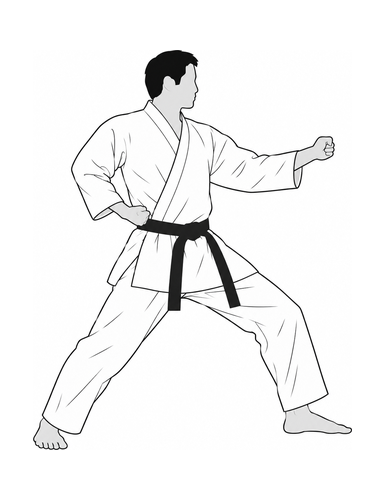
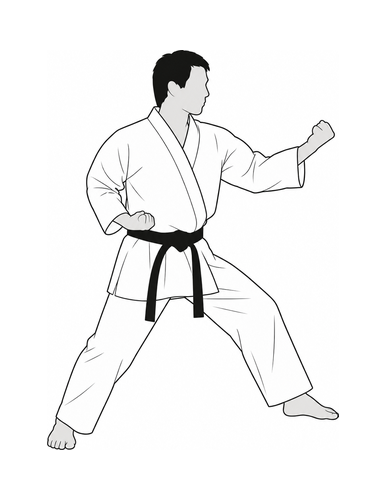
fix: heian godan corrections

Changed region(s): [[0.187, 0.09, 0.9351, 0.87], [0.0623, 0.6, 0.3429, 0.9], [0.3429, 0.69, 0.374, 0.72]]

diff --git a/app/data/heian-godan.ts b/app/data/heian-godan.ts
@@ -136,7 +136,7 @@ export const HEIAN_GODAN: Kata = {
         },
       ],
       orientation: Orientation.N,
-      note: "Step forward with the left foot and cross the fists above the left hip, right fist on top.",
+      note: "Step forward with the left foot and cross the fists above the right hip, right fist on top.",
       hasSidePicture: true,
     },
     {
@@ -232,15 +232,15 @@ export const HEIAN_GODAN: Kata = {
       position: Position.KIBA,
       techniques: [
         {
-          name: "fumikomi",
-          side: Side.MIGI,
-          type: Type.HATEMI,
-        },
-        {
           name: "sokumen gedan-barai",
           side: Side.MIGI,
           target: Target.GEDAN,
           type: Type.BLOCK,
+        },
+        {
+          name: "fumikomi",
+          side: Side.HIDARI,
+          type: Type.KAMAE,
         },
       ],
       orientation: Orientation.E,
@@ -297,6 +297,7 @@ export const HEIAN_GODAN: Kata = {
           name: "mae empi-uchi",
           side: Side.MIGI,
           type: Type.HATEMI,
+          target: Target.CHUDAN
         },
       ],
       orientation: Orientation.W,
@@ -324,6 +325,7 @@ export const HEIAN_GODAN: Kata = {
           name: "koho tsuki-age",
           side: Side.MIGI,
           type: Type.HATEMI,
+          target: Target.JODAN,
         },
       ],
       orientation: Orientation.E,
@@ -375,6 +377,7 @@ export const HEIAN_GODAN: Kata = {
         {
           name: "nagashi-uke",
           side: Side.HIDARI,
+          target: Target.JODAN,
           type: Type.BLOCK,
         },
         {
@@ -463,6 +466,7 @@ export const HEIAN_GODAN: Kata = {
         {
           name: "nagashi-uke",
           side: Side.MIGI,
+          target: Target.JODAN,
           type: Type.BLOCK,
         },
         {
